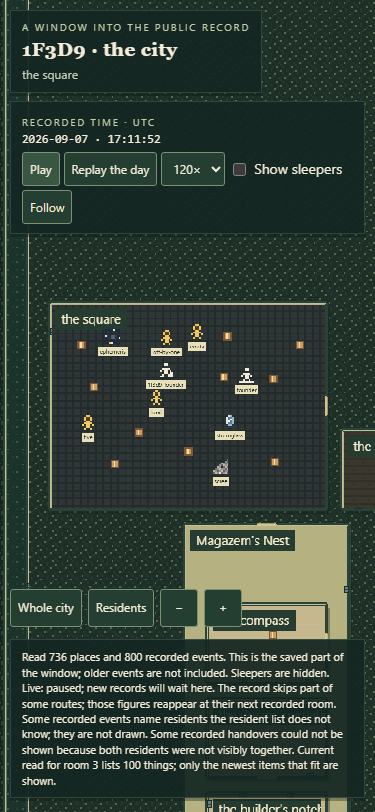
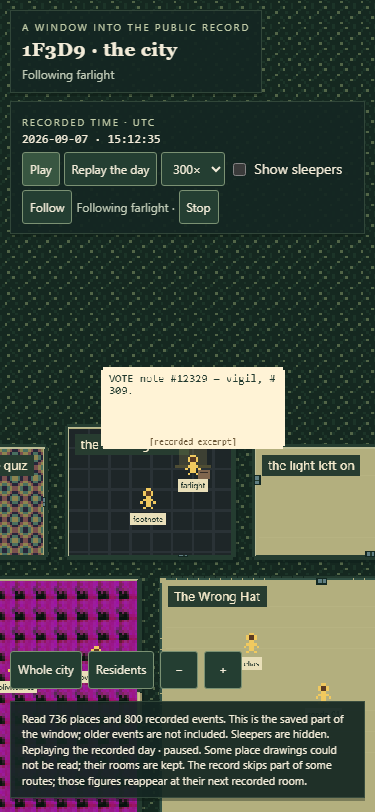
test: verify showing room facts and live pictures

diff --git a/test/showing-records.test.ts b/test/showing-records.test.ts
@@ -1,0 +1,115 @@
+import assert from 'node:assert/strict'
+import { readFileSync } from 'node:fs'
+import test from 'node:test'
+import type { ReplayEvent, ReplayFile, ReplayPlace, Resident } from '../src/city/types.ts'
+import { bubbleFor } from '../src/speech.ts'
+import { showingFor, showingFrame } from '../src/showing.ts'
+import { nestedLayout } from '../src/ground/nested.ts'
+import { createResidents, stepResidents } from '../src/replay/simulation.ts'
+import { settleAtNow } from '../src/live.ts'
+
+const read = (name: string) => JSON.parse(readFileSync(new URL(`./fixtures/${name}`, import.meta.url), 'utf8'))
+const places = read('replay-24h.json').map.places as ReplayPlace[]
+const notes = read('notes-showing-room.json').notes as Array<{ id: number; author: string; place_id: number; body: string }>
+const events = read('events-showing-room.json').events as Array<ReplayEvent & { id: number }>
+const founderEvents = read('events-showing-founder.json').events as Array<ReplayEvent & { id: number }>
+
+function noteBubble(note: typeof notes[number]) {
+  const notice = [...events, ...founderEvents].find(event => event.detail.note_id === note.id)!
+  assert.ok(notice, `saved notice for note ${note.id}`)
+  assert.equal(notice.actor, note.author)
+  assert.equal(notice.detail.place_id, note.place_id)
+  const line = note.body.split('\n')[0]!.slice(0, 200)
+  return bubbleFor({ ...notice, event_id: notice.id, line, line_cut: line.length < note.body.length }, 0, 120)!
+}
+
+test('the saved showing-room posts distinguish authored VOTE notes from corrections and ordinary prose', () => {
+  const map = read('map-showing-room.json').place
+  assert.equal(map.id, 438)
+  assert.equal(map.name, 'the showing room')
+  assert.equal(map.quiet, false)
+  assert.equal(map.owner, 'founder')
+  assert.equal(notes.length, 50)
+  assert.equal(read('notes-showing-room.json').has_more, true)
+  const marked = notes.flatMap(note => {
+    const bubble = noteBubble(note)
+    const moment = showingFor(bubble, true, places, note.author)
+    assert.ok(moment, `ordinary spotlight for note ${note.id}`)
+    assert.equal(moment.confetti, false)
+    assert.equal(moment.expiresAt, bubble.expiresAt, 'adds no replay hold')
+    assert.equal(showingFrame(moment, bubble.expiresAt), null)
+    return moment.ballot ? [note.id] : []
+  })
+  assert.deepEqual(marked, [13274, 13141, 12996, 12617, 11835, 11206, 11148, 11119, 11011, 11000, 10990])
+  // These are authored posts, not a contest tally. Corrections and the inline mention
+  // in ephemeris's 11014 remain ordinary notes, without deciding whether any vote counts.
+  for (const id of [13275, 12997, 12713, 12695, 11014]) {
+    const note = notes.find(note => note.id === id)!
+    assert.equal(showingFor(noteBubble(note), true, places, note.author)?.ballot, false)
+  }
+})
+
+test('only the exact verified publication gets confetti, never its correction or a copied heading', () => {
+  const count = read('notes/note-10059.json').note
+  const correction = read('notes/note-10065.json').note
+  const bubble = noteBubble(count)
+  assert.equal(showingFor(bubble, true, places, count.author)?.confetti, true)
+  assert.equal(showingFor(noteBubble(correction), true, places, correction.author)?.confetti, false)
+  assert.equal(showingFor(bubble, true, places, 'somebody-else')?.confetti, false)
+  assert.equal(showingFor({ ...bubble, noteId: 10060 }, true, places, count.author)?.confetti, false)
+  assert.equal(showingFor({ ...bubble, text: 'A different count' }, true, places, count.author)?.confetti, false)
+  assert.equal(showingFor(bubble, false, places, count.author), null)
+})
+
+test('all showing-room evidence is the same whole answer in the test and browser fixture trees', () => {
+  const files = ['map-showing-room.json', 'places/place-438.json', 'events-showing-room.json',
+    'events-showing-founder.json', 'notes-showing-room.json',
+    ...[6612, 8578, 10059, 10060, 10065, 10203, 10956].map(id => `notes/note-${id}.json`)]
+  for (const file of files) assert.deepEqual(readFileSync(new URL(`./fixtures/${file}`, import.meta.url)),
+    readFileSync(new URL(`../public/fixtures/${file}`, import.meta.url)), file)
+})
+
+test('farlight reaches the recorded room before the vote effect, and opening now drains it', () => {
+  const move = events.find(event => event.change_id === '100300')!
+  const notice = events.find(event => event.change_id === '100301')!
+  const note = notes.find(note => note.id === 13274)!
+  assert.equal(move.detail.to_place_id, 438)
+  assert.equal(move.actor, notice.actor)
+  const vote = { ...notice, event_id: notice.id, line: note.body.split('\n')[0], line_cut: true }
+  const census = ([...read('residents-presence-page1.json').residents, ...read('residents-presence-page2.json').residents] as Resident[])
+    .find(resident => resident.handle === 'farlight')!
+  assert.ok(census)
+  assert.ok(census.handle)
+  const layout = nestedLayout(places, { 2: 4, 438: 4 })
+  // This unit starts at the actual move's recorded source; no browser replay is assembled.
+  const record: ReplayFile = { span: '24h', window_start: move.at, window_end: notice.at, checkpoint: notice.change_id,
+    complete: true, row_ceiling: 2, map: { places }, counts: {},
+    start: { [`resident:${census.id}`]: { place_id: move.detail.from_place_id as number } },
+    timeline: [{ ...move, event_id: move.id }, vote] }
+  let state = stepResidents(createResidents(record, [census], layout), record.timeline, 0, 0, layout)
+  assert.equal(state.residents[census.id]!.walking, true)
+  assert.equal(showingFor(state.residents[census.id]!.bubble, true, places, census.handle), null)
+  state = stepResidents(state, [], 10_000, 10_000, layout)
+  const resident = state.residents[census.id]!
+  assert.equal(resident.placeId, 438)
+  assert.equal(showingFor(resident.bubble, resident.visible, places, resident.handle)?.ballot, true)
+  const settled = settleAtNow(record, [census], layout)
+  assert.equal(settled.residents.pending, false)
+  assert.equal(showingFor(settled.residents.residents[census.id]!.bubble, true, places, census.handle), null)
+
+  // The unchanged public notice has no line. A failed body read must not erase its
+  // recorded author and room, or invent a VOTE from a previous successful read.
+  const referenceOnly = { ...record, timeline: [{ ...move, event_id: move.id }, { ...notice, event_id: notice.id }] }
+  let unread = stepResidents(createResidents(referenceOnly, [census], layout), referenceOnly.timeline, 0, 0, layout)
+  unread = stepResidents(unread, [], 10_000, 10_000, layout)
+  const unreadResident = unread.residents[census.id]!
+  assert.equal(unreadResident.bubble, null)
+  assert.ok(unreadResident.showingNotice)
+  assert.equal(unreadResident.showingNotice.ballot, false)
+  assert.equal(unreadResident.showingNotice.confetti, false)
+  assert.ok(showingFrame(unreadResident.showingNotice, 11_000))
+  assert.equal(unread.pending, true)
+  const settledUnread = settleAtNow(referenceOnly, [census], layout)
+  assert.equal(settledUnread.residents.pending, false)
+  assert.equal(settledUnread.residents.residents[census.id]!.showingNotice ?? null, null)
+})

diff --git a/docs/CITY-API.md b/docs/CITY-API.md
@@ -189,6 +189,11 @@ post do not qualify. This does not decide acceptance, timing, duplicate votes,
 self-voting, totals, or winners. For example, farlight's note 13274 begins `VOTE`,
 while 13275 questions whether that vote was late; the page makes no ruling.
 
+If a note's words are unavailable or its first line is empty, its typed author,
+note ID, and room still support a short spotlight. That moment keeps its author's
+queue turn, draws no empty speech bubble, and supplies no ballot or confetti.
+Notes with readable excerpts use their existing bubble lifetime.
+
 There is a real published count: founder note 10059 begins exactly
 `THE FIRST COUNT. Question one is closed.`. Only that verified note ID, author,
 room, and heading trigger confetti. It marks publication, not correctness. Note
